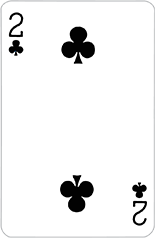
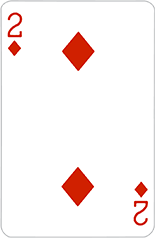
Added randomized card deler that ads to player deck and prints toGUI

diff --git a/apps/my_app.cc b/apps/my_app.cc
@@ -24,6 +24,7 @@ void MyApp::setup() {
 }
 
 void MyApp::update() {
+
 }
 
 void MyApp::draw() {
@@ -38,6 +39,7 @@ void MyApp::draw() {
     DrawStartGameButtons();
   }
   if (inGame && inRound) {
+    engine.RunRound();
     DrawGameState();
     DrawGameButtons();
     DrawPlayerCards();
@@ -72,7 +74,7 @@ void MyApp::DrawGameState() {
   std::string betText = "Current Bet: " + engine.BetToString(current_bet);
   ui::Text(balText.c_str());
   ui::Text(betText.c_str());
-  cinder::gl::draw(GetCardTexture(2,1));
+//  cinder::gl::draw(GetCardTexture(2,1));
 }
 
 void MyApp::DrawGameButtons() {
@@ -121,7 +123,14 @@ void MyApp::ResetBalance() {
   current_bet = 0;
 }
 void MyApp::DrawPlayerCards() {
+  size_t row = 0;
+  const cinder::vec2 center = getWindowCenter();
   
+  for (int i = 0; i < engine.player_cards.size(); i++) {
+    const cinder::vec2 locp = {center.x, center.y + (++row) * 50};
+    std::cout<<engine.GetCardValue(engine.player_cards[i])<<std::endl;
+    cinder::gl::draw(GetCardTexture(engine.player_cards[i].color,engine.GetCardValue(engine.player_cards[i])), locp);
+  }
 }
 void MyApp::DrawDealerCards() {
   

diff --git a/src/engine.cc b/src/engine.cc
@@ -9,23 +9,46 @@
 namespace mylibrary {
 
 
-int randomValueGenerator() {
+int Engine::randomColorGenerator() {
+  unsigned seed = time(0);
+  srand(seed);
+  int nr = rand() % 4 + 1;
+  return nr;
+}
+
+int Engine::randomValueGenerator() {
+  unsigned seed = time(0);
+  srand(seed);
   int nr = rand() % 14 + 1;
   return nr;
 }
 
-int randomColorGenerator() {
-  int nr = rand() % 4 + 1;
-  return nr;
-}
 std::vector<cinder::gl::Texture2dRef> Engine::LoadCards() {
   return std::vector<cinder::gl::Texture2dRef>();
 }
 std::string Engine::BetToString(int value) {
-  
   std::stringstream ss;
   ss << value;
   return ss.str();
 }
 
+void Engine::RunRound() {
+  if (player_cards.empty()) {
+    card card1 = DealCards();
+    card card2 = DealCards();
+    player_cards.push_back(card1);
+    player_cards.push_back(card2);
+  }
+}
+
+
+Engine::card Engine::DealCards() {
+  card dealt_card;
+  dealt_card.color = randomValueGenerator();
+  dealt_card.value = randomColorGenerator();
+  return dealt_card;
+}
+int Engine::GetCardValue(Engine::card card) { 
+  return card.value;
+}
 }  // namespace mylibrary

diff --git a/include/mylibrary/engine.h b/include/mylibrary/engine.h
@@ -9,6 +9,7 @@
 namespace mylibrary {
 class Engine {
  public:
+  
   struct card
   {
     int color, value;
@@ -18,7 +19,9 @@ class Engine {
   int randomValueGenerator();
   int randomColorGenerator();
   std::vector<cinder::gl::Texture2dRef> LoadCards();
-  
+  void RunRound();
+  card DealCards();
+  int GetCardValue(Engine::card card);
 };
 
   
